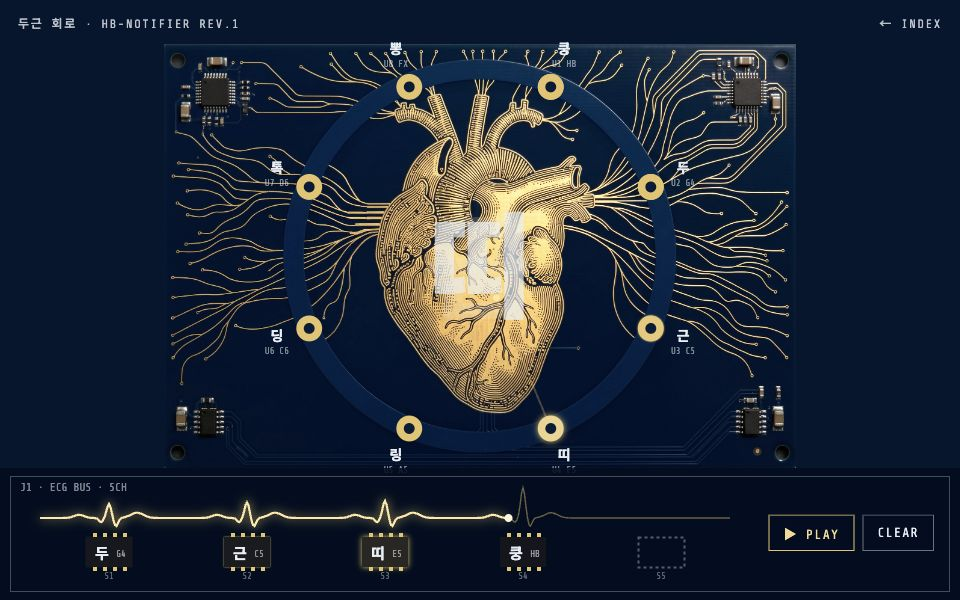
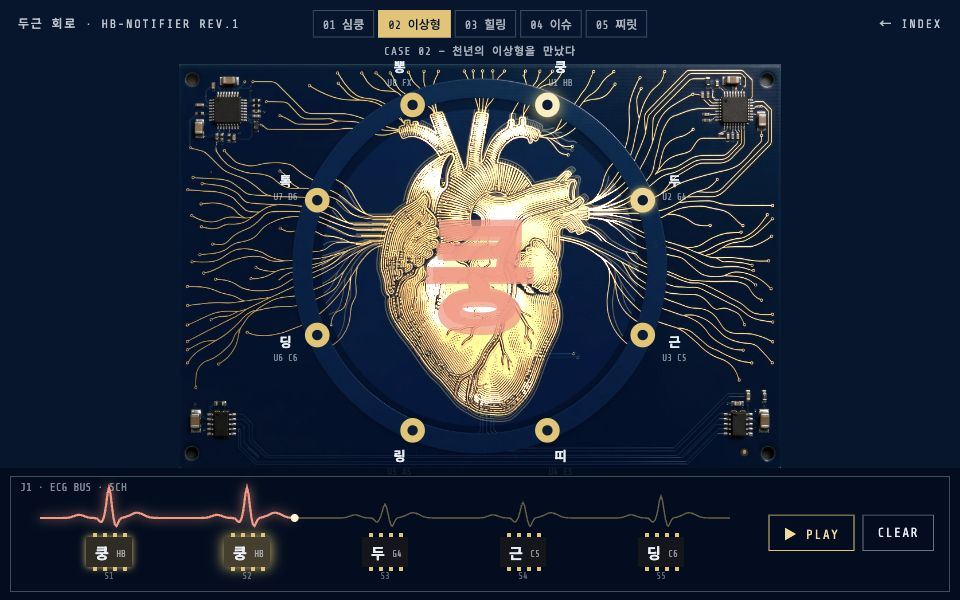
day-261118 빛이 실제 회로를 타고 흐르게, 상황 5가지(심쿵·이상형·힐링·이슈·찌릿)

diff --git a/day-261118/main.js b/day-261118/main.js
@@ -1,4 +1,5 @@
 import { unlock, play as sound, now } from './audio.js';
+import { buildCircuit, paintCircuit } from './circuit.js?v=4';
 
 const NOTES = [
   { k: '쿵', n: 'HB', f: 0, type: 'thump' },
@@ -10,7 +11,15 @@ const NOTES = [
   { k: '톡', n: 'D6', f: 1174.7, type: 'tok' },
   { k: '뽕', n: 'FX', f: 900, type: 'pop' },
 ];
-const SLOTS = 5, STEP = .38;
+const SLOTS = 5, LEAD = .3;
+const CASES = [
+  { t: '심쿵', d: '길에서 댕냥이를 만났다', chips: [3, 0, 7, 4], step: .3, idle: .9, col: [255, 196, 214] },
+  { t: '이상형', d: '천년의 이상형을 만났다', chips: [0, 0, 1, 2, 5], step: .19, idle: .45, col: [255, 150, 130] },
+  { t: '힐링', d: '요가 매트 위, 느긋한 오후', chips: [1, 4, 2], step: .72, idle: 1.7, col: [170, 236, 205] },
+  { t: '이슈', d: '큰일났다, 이슈가 터졌다', chips: [6, 0, 6, 0, 6], step: .15, idle: .38, col: [255, 96, 84] },
+  { t: '찌릿', d: '심장이 찌릿, 아련한 밤', chips: [5, 3, 1], step: .55, idle: 1.3, col: [160, 200, 255] },
+];
+let cs = 0, STEP = CASES[0].step;
 const GOLD = '#e7c36a', SILK = '#e8eef4';
 const MONO = '"Share Tech Mono", monospace', KR = '"Noto Sans KR", sans-serif';
 
@@ -20,12 +29,12 @@ const clamp = (v, a, b) => Math.max(a, Math.min(b, v));
 const ease = t => { t = clamp(t, 0, 1); return t * t * (3 - 2 * t); };
 
 let W = 0, H = 0, DPR = 1, L = null, last = performance.now(), T = 0, idle = 0;
-let chips = [1, 2], beat = 0, hover = -1, run = null, name = '', nameT = 0;
+let chips = CASES[0].chips.slice(), beat = 0, hover = -1, run = null, name = '', nameT = 0;
 const padLit = new Array(NOTES.length).fill(0), chipLit = new Array(SLOTS).fill(0);
-let pulses = [], stamps = [];
+let waves = [], queue = [], stamps = [], C = null;
 
 function layout() {
-  const strip = W < 640 ? 150 : 132, top = 44, ah = H - strip - top;
+  const strip = W < 640 ? 150 : 132, top = W < 640 ? 118 : 64, ah = H - strip - top;
   const IW = img.naturalWidth || 2100, IH = img.naturalHeight || 1409;
   const k = Math.min(ah / IH, Math.max(W / IW, (W - 90) / (.872 * IH))), bw = IW * k, bh = IH * k, bx = (W - bw) / 2, by = top + (ah - bh) / 2;
   const cx = bx + bw * .5, cy = by + bh * .504, R = bh * .436;
@@ -44,20 +53,22 @@ function fire(ni, si) {
   const n = NOTES[ni];
   beat = Math.max(beat, n.type === 'thump' ? 1.3 : .85);
   padLit[ni] = 1; if (si >= 0) chipLit[si] = 1;
-  pulses.push({ p: ni, t: 0 }); stamps.push({ ch: n.k, t: 0 });
+  stamps.push({ ch: n.k, t: 0 }); waves.push({ kind: 'out', t: 0, dur: .8, gain: n.type === 'thump' ? 1.2 : .9 });
 }
 
+function inWave(ni) { waves.push({ kind: 'in', t: 0, dur: LEAD, ang: L.pads[ni].a, gain: 1 }); padLit[ni] = .6; }
+
 function addChip(ni) {
-  unlock(); sound(NOTES[ni]); fire(ni, -1);
+  unlock(); sound(NOTES[ni], now() + LEAD); inWave(ni); queue.push({ at: T + LEAD, ni, si: -1 });
   if (chips.length < SLOTS) { chips.push(ni); name = ''; } else chipLit.fill(.6);
 }
 
 function startRun() {
   if (!chips.length) return;
   unlock();
-  const t0 = now() + .06, dur = SLOTS * STEP;
+  const t0 = now() + LEAD, dur = SLOTS * STEP;
   chips.forEach((ni, i) => sound(NOTES[ni], t0 + (i + .5) * STEP));
-  run = { t: -.06, dur, fired: new Set() };
+  run = { t: -LEAD, dur, started: new Set(), fired: new Set() };
   name = ''; stamps = [];
 }
 
@@ -78,16 +89,11 @@ function drawWave(xa, xb, style, lw) {
   ctx.strokeStyle = style; ctx.lineWidth = lw; ctx.stroke();
 }
 
-function padPath(p) {
-  const a = L.pads[p].a, mx = L.cx + Math.cos(a) * L.R * .58, my = L.cy + Math.sin(a) * L.R * .58;
-  return [[L.pads[p].x, L.pads[p].y], [mx, my], [L.cx + Math.cos(a) * L.R * .2, L.cy + Math.sin(a) * L.R * .2]];
-}
-
-function along(path, u) {
-  const segs = path.slice(1).map((p, i) => Math.hypot(p[0] - path[i][0], p[1] - path[i][1])), tot = segs.reduce((a, b) => a + b, 0);
-  let d = u * tot;
-  for (let i = 0; i < segs.length; i++) { if (d <= segs[i]) { const f = d / segs[i]; return [path[i][0] + (path[i + 1][0] - path[i][0]) * f, path[i][1] + (path[i + 1][1] - path[i][1]) * f]; } d -= segs[i]; }
-  return path[path.length - 1];
+function setCase(i) {
+  cs = i; STEP = CASES[i].step; chips = CASES[i].chips.slice(); name = ''; run = null; queue = [];
+  document.querySelectorAll('#cases button').forEach((b, j) => b.classList.toggle('on', j === i));
+  document.getElementById('cdesc').textContent = `CASE 0${i + 1} — ${CASES[i].d}`;
+  startRun();
 }
 
 function partName() {
@@ -102,13 +108,17 @@ function frame(t) {
   if (run) {
     run.t += dt;
     const u = run.t / run.dur;
-    chips.forEach((ni, i) => { if (!run.fired.has(i) && run.t >= (i + .5) * STEP) { run.fired.add(i); fire(ni, i); } });
+    chips.forEach((ni, i) => {
+      if (!run.started.has(i) && run.t >= (i + .5) * STEP - LEAD) { run.started.add(i); inWave(ni); }
+      if (!run.fired.has(i) && run.t >= (i + .5) * STEP) { run.fired.add(i); fire(ni, i); }
+    });
     if (u >= 1.08) { run = null; name = partName(); nameT = 0; }
-  } else if ((idle += dt) > 1.1) { idle = 0; beat = Math.max(beat, .22); }
+  } else if ((idle += dt) > CASES[cs].idle) { idle = 0; beat = Math.max(beat, .22); waves.push({ kind: 'out', t: 0, dur: .9, gain: .3 }); }
+  queue = queue.filter(q => { if (T >= q.at) { fire(q.ni, q.si); return false; } return true; });
   beat *= Math.exp(-4.5 * dt);
   for (let i = 0; i < padLit.length; i++) padLit[i] *= Math.exp(-3 * dt);
   for (let i = 0; i < SLOTS; i++) chipLit[i] *= Math.exp(-3 * dt);
-  pulses.forEach(p => p.t += dt); pulses = pulses.filter(p => p.t < .6);
+  waves.forEach(w => w.t += dt); waves = waves.filter(w => w.t < w.dur);
   stamps.forEach(s => s.t += dt); stamps = stamps.filter(s => s.t < .9);
   nameT += dt;
 
@@ -126,20 +136,19 @@ function frame(t) {
     }
   }
 
-  for (const p of pulses) {
-    const path = padPath(p.p), u = ease(p.t / .4), a = 1 - clamp((p.t - .3) / .3, 0, 1);
-    ctx.beginPath(); path.forEach(([x, y], i) => i ? ctx.lineTo(x, y) : ctx.moveTo(x, y));
-    ctx.strokeStyle = `rgba(231,195,106,${.35 * a})`; ctx.lineWidth = 2; ctx.stroke();
-    const [hx, hy] = along(path, u);
-    ctx.fillStyle = `rgba(255,236,170,${a})`; ctx.shadowColor = GOLD; ctx.shadowBlur = 14;
-    ctx.beginPath(); ctx.arc(hx, hy, 3.5, 0, Math.PI * 2); ctx.fill(); ctx.shadowBlur = 0;
+  if (C && waves.length) {
+    paintCircuit(C, waves, CASES[cs].col);
+    ctx.save(); ctx.globalCompositeOperation = 'lighter';
+    ctx.drawImage(C.oc, L.bx, L.by, L.bw, L.bh);
+    ctx.globalAlpha = .5; ctx.drawImage(C.oc, L.bx - 1, L.by - 1, L.bw + 2, L.bh + 2);
+    ctx.restore();
   }
 
   for (const s of stamps) {
     const a = s.t < .08 ? s.t / .08 : 1 - clamp((s.t - .2) / .7, 0, 1), sc = 1 + .18 * (1 - ease(s.t / .25));
     ctx.save(); ctx.translate(L.cx, L.cy); ctx.scale(sc, sc);
     ctx.font = `900 ${L.R * .62}px ${KR}`; ctx.textAlign = 'center'; ctx.textBaseline = 'middle';
-    ctx.fillStyle = `rgba(232,238,244,${.88 * a})`; ctx.fillText(s.ch, 0, L.R * .04);
+    const cc = CASES[cs].col; ctx.fillStyle = `rgba(${cc[0]},${cc[1]},${cc[2]},${.9 * a})`; ctx.fillText(s.ch, 0, L.R * .04);
     ctx.restore();
   }
 
@@ -162,7 +171,7 @@ function frame(t) {
   drawWave(L.x0, L.x1, 'rgba(231,195,106,.45)', 1.4);
   if (run) {
     const cx = L.x0 + clamp(run.t / run.dur, 0, 1) * (L.x1 - L.x0);
-    ctx.shadowColor = GOLD; ctx.shadowBlur = 10; drawWave(L.x0, cx, '#ffe7a6', 2.2); ctx.shadowBlur = 0;
+    const cc = `rgb(${CASES[cs].col.join(',')})`; ctx.shadowColor = cc; ctx.shadowBlur = 10; drawWave(L.x0, cx, cc, 2.2); ctx.shadowBlur = 0;
     const y = L.ly - wave(cx) * L.strip * .2;
     ctx.fillStyle = '#fff6d8'; ctx.beginPath(); ctx.arc(cx, y, 4, 0, Math.PI * 2); ctx.fill();
   }
@@ -205,6 +214,9 @@ cv.addEventListener('pointermove', e => {
   cv.style.cursor = h && (h.pad !== undefined || chips[h.sock] !== undefined) ? 'pointer' : 'default';
 });
 document.getElementById('play').onclick = startRun;
+CASES.forEach((c, i) => { const b = document.createElement('button'); b.textContent = `0${i + 1} ${c.t}`; b.onclick = () => setCase(i); document.getElementById('cases').append(b); });
+document.querySelectorAll('#cases button')[0].classList.add('on');
+document.getElementById('cdesc').textContent = `CASE 01 — ${CASES[0].d}`;
 document.getElementById('clear').onclick = () => { if (!run) { chips = []; name = ''; } };
 addEventListener('keydown', e => {
   if (e.key === ' ') { e.preventDefault(); startRun(); }
@@ -212,6 +224,7 @@ addEventListener('keydown', e => {
   else if (e.key >= '1' && e.key <= '8') addChip(+e.key - 1);
 });
 addEventListener('resize', resize);
-img.onload = layout;
+img.onload = () => { layout(); C = buildCircuit(img); };
+if (img.complete && img.naturalWidth) C = buildCircuit(img);
 document.fonts.load(`700 16px ${KR}`, '쿵두근띠링딩톡뽕').finally(() => { resize(); });
 requestAnimationFrame(frame);

diff --git a/day-261118/circuit.js b/day-261118/circuit.js
@@ -1,0 +1,63 @@
+export function buildCircuit(img) {
+  const MW = 720, MH = Math.round(img.naturalHeight / img.naturalWidth * MW), N = MW * MH;
+  const oc = document.createElement('canvas'); oc.width = MW; oc.height = MH;
+  const octx = oc.getContext('2d', { willReadFrequently: true });
+  octx.drawImage(img, 0, 0, MW, MH);
+  const px = octx.getImageData(0, 0, MW, MH).data, gold = new Uint8Array(N);
+  for (let i = 0; i < N; i++) { const r = px[i * 4], g = px[i * 4 + 1], b = px[i * 4 + 2]; gold[i] = r > 110 && r - b > 45 && g > 70 ? 1 : 0; }
+
+  const cx = MW * .5, cy = MH * .504, R = MH * .436, dist = new Float32Array(N).fill(Infinity), q = new Int32Array(N);
+  const rad = i => Math.hypot(i % MW - cx, ((i / MW) | 0) - cy);
+  const bfs = seeds => {
+    let h = 0, tl = 0;
+    for (const [i, d] of seeds) if (d < dist[i]) { dist[i] = d; q[tl++] = i; }
+    while (h < tl) {
+      const i = q[h++], x = i % MW, y = (i / MW) | 0, d = dist[i] + 1;
+      for (let dy = -1; dy <= 1; dy++) for (let dx = -1; dx <= 1; dx++) {
+        const X = x + dx, Y = y + dy;
+        if ((!dx && !dy) || X < 0 || Y < 0 || X >= MW || Y >= MH) continue;
+        const j = Y * MW + X;
+        if (gold[j] && dist[j] === Infinity) { dist[j] = d; q[tl++] = j; }
+      }
+    }
+  };
+  const s1 = [];
+  for (let i = 0; i < N; i++) if (gold[i] && rad(i) < 22) s1.push([i, 0]);
+  bfs(s1);
+  let sum = 0, n = 0;
+  for (let i = 0; i < N; i++) { const r = rad(i); if (dist[i] < Infinity && r > R - 40 && r < R - 12) { sum += dist[i]; n++; } }
+  const Dring = n ? sum / n : R, s2 = [];
+  for (let i = 0; i < N; i++) { const r = rad(i); if (gold[i] && dist[i] === Infinity && r > R + 4 && r < R + 30) s2.push([i, Dring + (r - R)]); }
+  bfs(s2);
+
+  const idx = [], dd = [], ang = [];
+  let maxD = 0;
+  for (let i = 0; i < N; i++) if (dist[i] < Infinity) { idx.push(i); dd.push(dist[i]); ang.push(Math.atan2(((i / MW) | 0) - cy, i % MW - cx)); maxD = Math.max(maxD, dist[i]); }
+  octx.clearRect(0, 0, MW, MH);
+  const od = octx.createImageData(MW, MH);
+  for (const i of idx) { od.data[i * 4] = 255; od.data[i * 4 + 1] = 236; od.data[i * 4 + 2] = 178; }
+  return { oc, octx, od, idx: Int32Array.from(idx), d: Float32Array.from(dd), ang: Float32Array.from(ang), maxD, Dring };
+}
+
+export function paintCircuit(C, waves, col) {
+  const { idx, d, ang, od, maxD } = C, data = od.data;
+  if (C.col !== col) { C.col = col; for (const i of idx) { data[i * 4] = col[0]; data[i * 4 + 1] = col[1]; data[i * 4 + 2] = col[2]; } }
+  for (let k = 0; k < idx.length; k++) {
+    let I = 0;
+    const dk = d[k];
+    for (const w of waves) {
+      const u = Math.min(1, w.t / w.dur);
+      if (w.kind === 'in') {
+        let da = ang[k] - w.ang; da = Math.abs(Math.atan2(Math.sin(da), Math.cos(da)));
+        if (da > .62) continue;
+        const front = maxD * (1 - u);
+        I += Math.exp(-(((dk - front) / 9) ** 2)) * (1 - da / .62) * w.gain;
+      } else {
+        const front = u * maxD * 1.05, x = (dk - front) / 12;
+        I += (Math.exp(-x * x) + (dk < front ? .22 * Math.exp(-(front - dk) / 55) : 0)) * Math.pow(1 - u, .6) * w.gain;
+      }
+    }
+    data[idx[k] * 4 + 3] = I > 1 ? 255 : I * 255;
+  }
+  C.octx.putImageData(od, 0, 0);
+}

diff --git a/day-261118/index.html b/day-261118/index.html
@@ -11,17 +11,23 @@
   canvas { position: fixed; inset: 0; width: 100%; height: 100%; display: block; }
   #top { position: fixed; left: 18px; right: 18px; top: 14px; display: flex; justify-content: space-between; font-size: 12px; letter-spacing: .14em; text-transform: uppercase; opacity: .8; z-index: 2; pointer-events: none; }
   #top a { color: inherit; text-decoration: none; pointer-events: auto; }
+  #sel { position: fixed; left: 50%; top: 10px; transform: translateX(-50%); display: flex; flex-direction: column; align-items: center; gap: 4px; z-index: 3; }
+  #cases { display: flex; gap: 4px; }
+  #cases button { background: transparent; color: rgba(232,238,244,.7); border: 1px solid rgba(232,238,244,.25); font: 12px 'Share Tech Mono', 'Noto Sans KR', monospace; padding: 4px 9px; cursor: pointer; }
+  #cases button.on { color: #03162f; background: #e7c36a; border-color: #e7c36a; }
+  #cdesc { font: 11px 'Share Tech Mono', 'Noto Sans KR', monospace; letter-spacing: .08em; opacity: .7; }
   #ctl { position: fixed; right: 26px; bottom: 49px; display: flex; gap: 8px; z-index: 2; }
   #ctl button { background: transparent; color: #e8eef4; border: 1px solid rgba(232,238,244,.45); font: 13px 'Share Tech Mono', 'Noto Sans KR', monospace; letter-spacing: .1em; padding: 8px 14px; cursor: pointer; }
   #ctl button:hover { background: rgba(232,238,244,.1); }
   #ctl #play { border-color: #e7c36a; color: #f3d98f; }
-  @media (max-width: 639px) { #ctl { top: 40px; bottom: auto; right: 18px; } #ctl button { padding: 6px 10px; font-size: 12px; } }
+  @media (max-width: 639px) { #sel { top: 38px; width: calc(100% - 24px); } #cases button { padding: 4px 6px; font-size: 11px; } #ctl { top: 82px; bottom: auto; right: 18px; } #ctl button { padding: 6px 10px; font-size: 12px; } }
 </style>
 </head>
 <body>
 <canvas id="c"></canvas>
 <header id="top"><span>두근 회로 · HB-NOTIFIER REV.1</span><a href="../index.html">← INDEX</a></header>
+<nav id="sel"><div id="cases"></div><div id="cdesc"></div></nav>
 <div id="ctl"><button id="play">▶ PLAY</button><button id="clear">CLEAR</button></div>
-<script type="module" src="main.js?v=3"></script>
+<script type="module" src="main.js?v=5"></script>
 </body>
 </html>

diff --git a/index.html b/index.html
@@ -448,7 +448,7 @@
     <div class="card-info">
       <div class="card-tag">day 261118 · notification sound</div>
       <div class="card-title">두근 회로</div>
-      <div class="card-concept">금빛 회로로 된 심장 기판의 패드를 눌러 심전도 선 위에 음 칩을 꽂으면, 신호가 흐르며 심장이 뛰고 나만의 두근 알림음이 부품 번호처럼 인쇄된다</div>
+      <div class="card-concept">심쿵·이상형·힐링·이슈·찌릿, 상황마다 다른 심박 알림음을 금빛 회로 심장 기판 위에서 작곡하면 빛이 회로를 타고 심장으로 들어가 뛰고, 알림음 이름이 부품 번호처럼 인쇄된다</div>
       <div class="card-bottom">
         <span>2026.11.18</span>
         <span class="bookmark" aria-hidden="true"></span>
